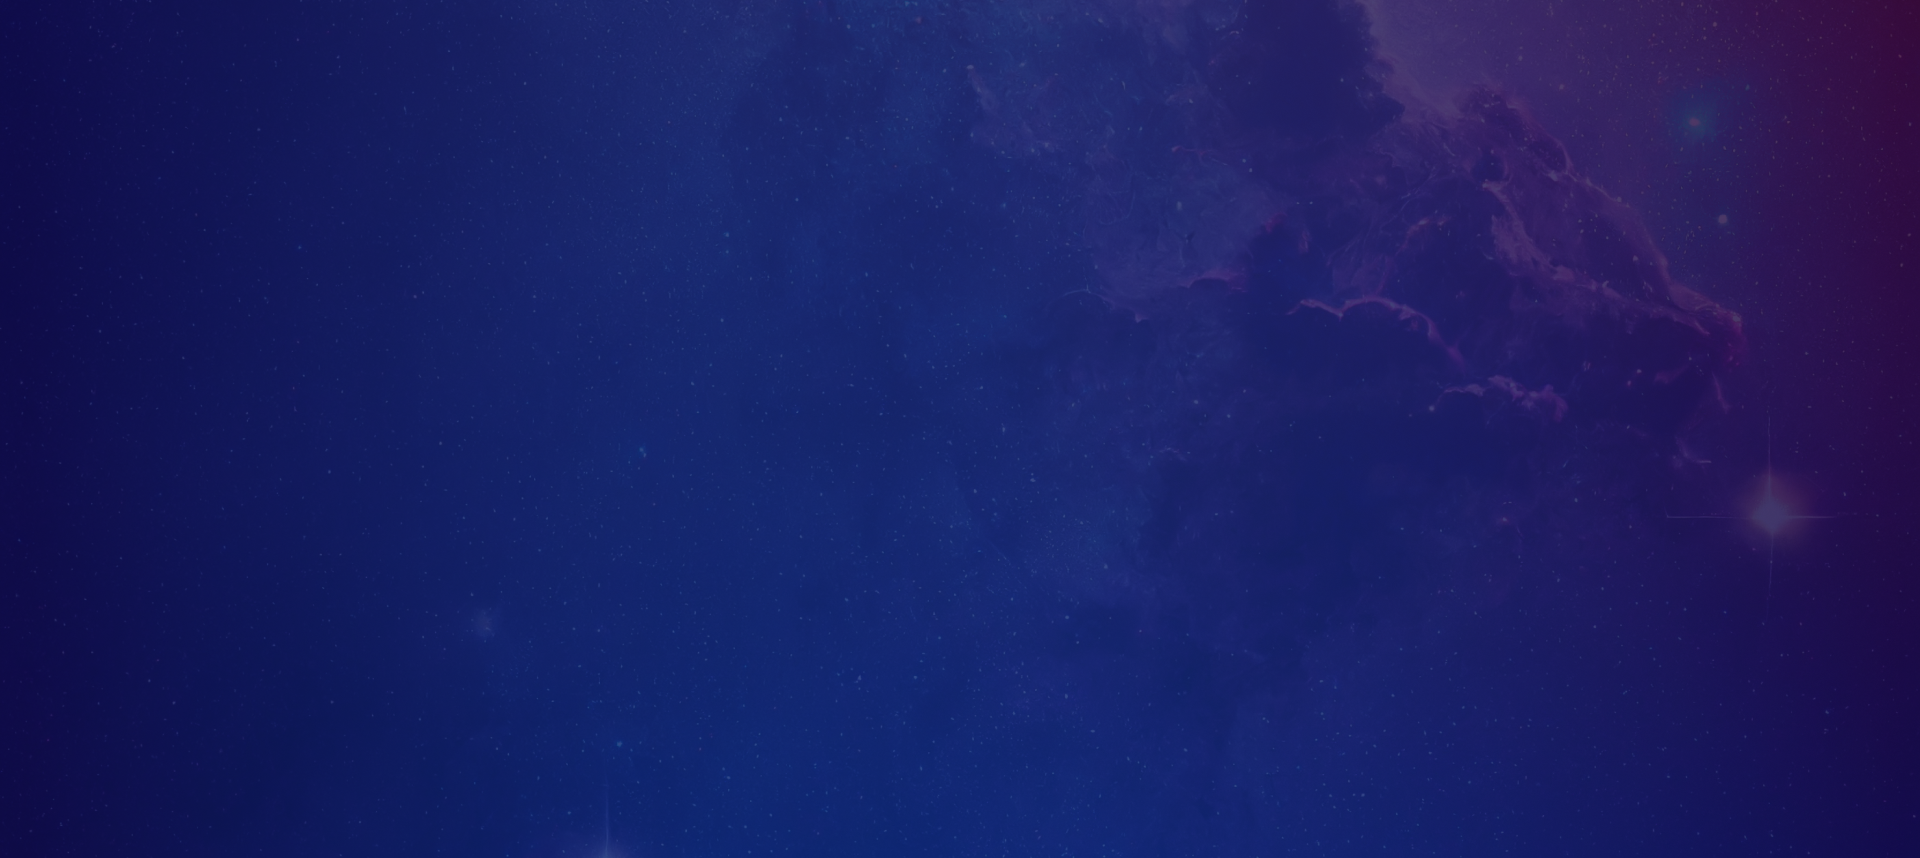
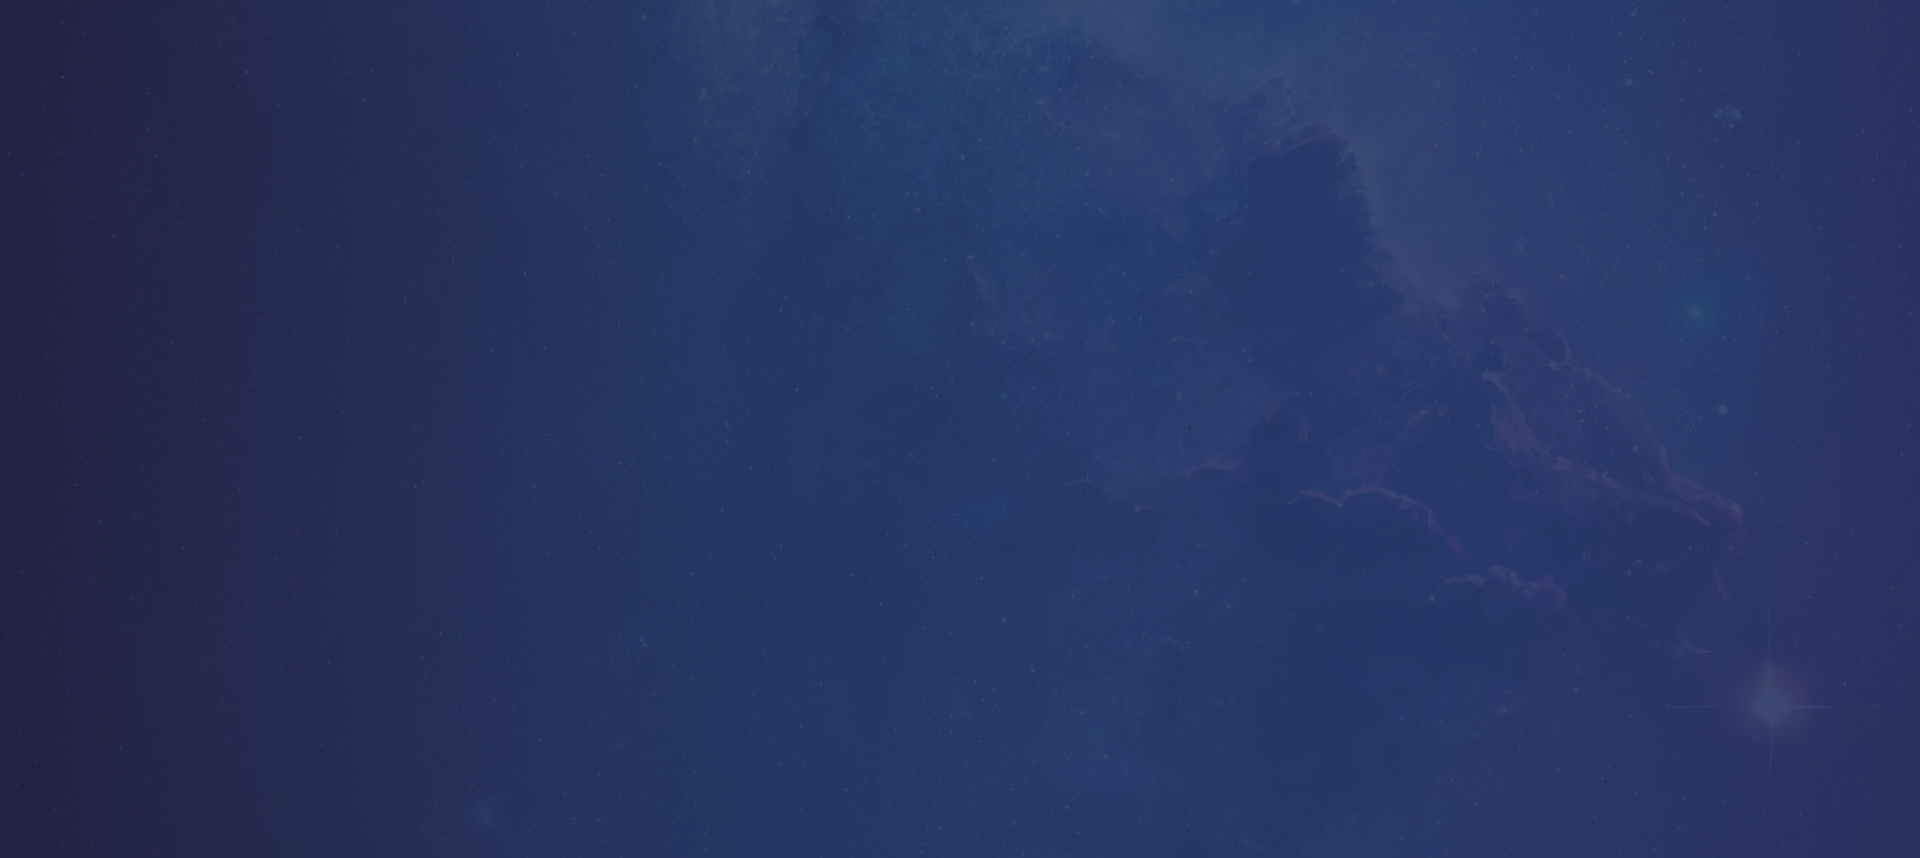
projects bg done

diff --git a/src/components/modules/home/Projects.tsx b/src/components/modules/home/Projects.tsx
@@ -64,7 +64,7 @@ const Projects = () => {
     },
   ];
   return (
-    <section className="py-20 px-4   bg-[url('@/assets/images/projects/prjects.png')] bg-cover bg-center bg-no-repeat">
+    <section className="py-20 px-4   bg-[url('@/assets/images/projects/project-bg.png')] bg-cover bg-center bg-no-repeat">
       <div className="container mx-auto">
         <div className="mb-16 ">
           <SectionTitle
